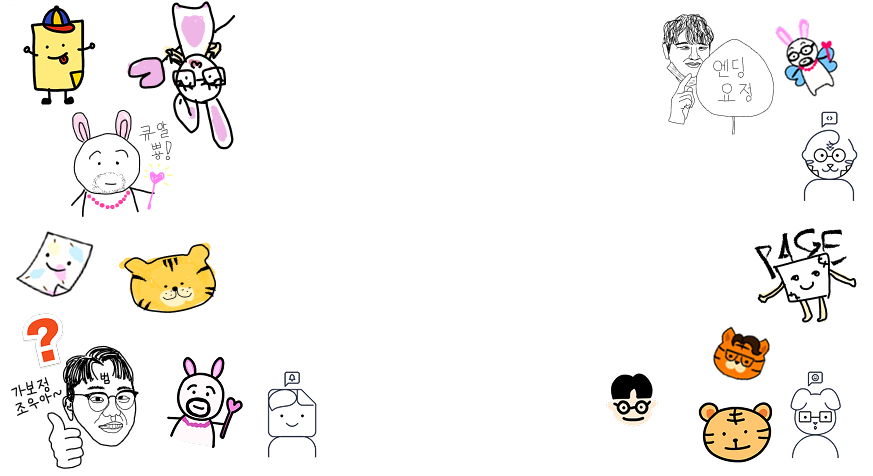
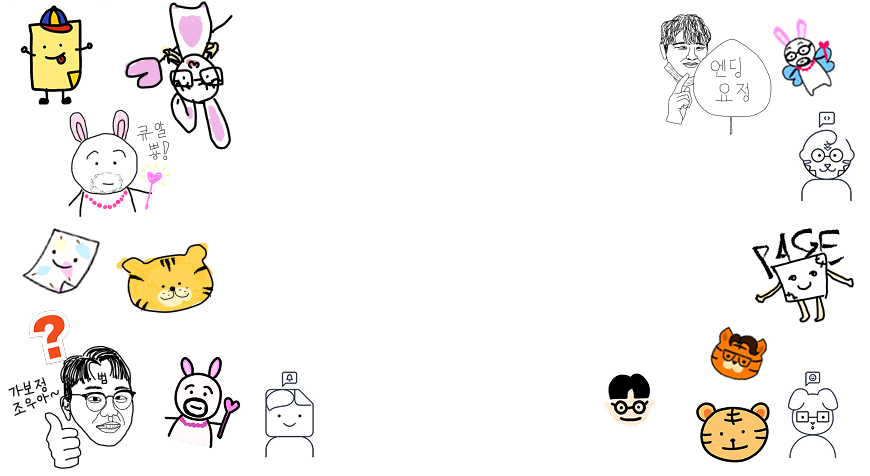
메인 이미지, 프로필 이미지 바뀜  적용

diff --git a/index.html b/index.html
@@ -25,12 +25,13 @@
                 <img
                   src="./assets/images/main/profile_img.png"
                   alt="프로필 이미지"
+                   class="profile_img"
                 />
               </figure>
               <nav class="lnb">
                 <ul>
                   <li>
-                    <a href="./html/uha.html" class="nav_link">
+                    <a href="./html/uha.html" class="nav_link" data-profile="uha">
                       <svg width="24" height="24" viewBox="0 0 24 24" fill="none" xmlns="http://www.w3.org/2000/svg">
                         <g clip-path="url(#clip0_47_20)">
                         <path d="M18 8H19C20.0609 8 21.0783 8.42143 21.8284 9.17157C22.5786 9.92172 23 10.9391 23 12C23 13.0609 22.5786 14.0783 21.8284 14.8284C21.0783 15.5786 20.0609 16 19 16H18M18 8H2V17C2 18.0609 2.42143 19.0783 3.17157 19.8284C3.92172 20.5786 4.93913 21 6 21H14C15.0609 21 16.0783 20.5786 16.8284 19.8284C17.5786 19.0783 18 18.0609 18 17V8ZM6 1V4M10 1V4M14 1V4" stroke="#1E1E1E" stroke-width="2.5" stroke-linecap="round" stroke-linejoin="round"/>
@@ -46,82 +47,26 @@
                     </a>
                   </li>
                   <li>
-                    <a href="./html/sujin.html" class="nav_link">
-                      <svg
-                        width="24"
-                        height="24"
-                        viewBox="0 0 24 24"
-                        fill="none"
-                        xmlns="http://www.w3.org/2000/svg"
-                      >
-                        <path
-                          d="M11 18H3M15 18L17 20L21 16M16 12H3M16 6H3"
-                          stroke="#0F172B"
-                          stroke-width="2"
-                          stroke-linecap="round"
-                          stroke-linejoin="round"
-                        />
-                      </svg>
+                    <a href="./html/sujin.html" class="nav_link" data-profile="sujin">
+                      <img src="./assets/images/sub/soo/sujin_icon.svg" alt="수진 아이콘" />
                       수진 princess
                     </a>
                   </li>
                   <li>
-                    <a href="./html/hyoyoung.html" class="nav_link">
-                      <svg
-                        width="24"
-                        height="24"
-                        viewBox="0 0 24 24"
-                        fill="none"
-                        xmlns="http://www.w3.org/2000/svg"
-                      >
-                        <path
-                          d="M11 18H3M15 18L17 20L21 16M16 12H3M16 6H3"
-                          stroke="#0F172B"
-                          stroke-width="2"
-                          stroke-linecap="round"
-                          stroke-linejoin="round"
-                        />
-                      </svg>
+                    <a href="./html/hyoyoung.html" class="nav_link" data-profile="hyoyoung">
+                      <img src="./assets/images/sub/hyo/taco.svg" alt="효영 아이콘" />
                       효영 princess
                     </a>
                   </li>
                   <li>
-                    <a href="./html/eunbin.html" class="nav_link">
-                      <svg
-                        width="24"
-                        height="24"
-                        viewBox="0 0 24 24"
-                        fill="none"
-                        xmlns="http://www.w3.org/2000/svg"
-                      >
-                        <path
-                          d="M11 18H3M15 18L17 20L21 16M16 12H3M16 6H3"
-                          stroke="#0F172B"
-                          stroke-width="2"
-                          stroke-linecap="round"
-                          stroke-linejoin="round"
-                        />
-                      </svg>
+                    <a href="./html/eunbin.html" class="nav_link" data-profile="eunbin">
+                      <img src="./assets/images/sub/bin/eunbin_icon.svg" alt="은빈 아이콘" />
                       은빈 princess
                     </a>
                   </li>
                   <li>
-                    <a href="./html/eunjung.html" class="nav_link">
-                      <svg
-                        width="24"
-                        height="24"
-                        viewBox="0 0 24 24"
-                        fill="none"
-                        xmlns="http://www.w3.org/2000/svg"
-                      >
-                        <path
-                          d="M11 18H3M15 18L17 20L21 16M16 12H3M16 6H3"
-                          stroke="#0F172B"
-                          stroke-width="2"
-                          stroke-linecap="round"
-                          stroke-linejoin="round"
-                        />
-                      </svg>
+                    <a href="./html/eunjung.html" class="nav_link" data-profile="eunjung">
+                      <img src="./assets/images/sub/eun/eunjung_icon.svg" alt="은정 아이콘" />
                       은정 princess
                     </a>
                   </li>
@@ -137,6 +82,7 @@
               class="iframe"
               src="./html/main.html"
               frameborder="0"
+              allowtransparency="true"
             ></iframe>
           </div>
           <!--// 오른쪽 영역 -->
@@ -153,10 +99,19 @@
 </html>
 
 <script>
+ const profileImages = {
+    "uha": "./assets/images/sub/yoo/uha_profile.png",
+    "sujin": "./assets/images/sub/soo/sujin_profile.png",
+    "hyoyoung": "./assets/images/sub/hyo/hyo_profile.jpg",
+    "eunbin": "./assets/images/sub/bin/eunbin_profile.png",
+    "eunjung": "./assets/images/sub/eun/eunjung_profile.png"
+  };
   document.querySelectorAll(".nav_link").forEach((link) => {
-    link.addEventListener("click", function (e) {
-      e.preventDefault();
-      document.querySelector(".iframe").src = this.href;
-    });
+  link.addEventListener("click", function(e) {
+    e.preventDefault();
+    const profileName = this.getAttribute('data-profile');
+    document.querySelector('.profile_img').src = profileImages[profileName];
+    document.querySelector(".iframe").src = this.href;
   });
+});
 </script>

diff --git a/assets/css/reset.css b/assets/css/reset.css
@@ -47,6 +47,7 @@ html, body {
     BlinkMacSystemFont, system-ui, Roboto, "Helvetica Neue", "Segoe UI",
     "Apple SD Gothic Neo", "Noto Sans KR", "Malgun Gothic", "Apple Color Emoji",
     "Segoe UI Emoji", "Segoe UI Symbol", sans-serif;
+		background-color: transparent;
 }
 a {
  font-size:100%;

diff --git a/assets/css/main.css b/assets/css/main.css
@@ -66,6 +66,7 @@
         background-color: #f5f5f5;
       }
     }
+    img {height: 24px;}
   }
 }
 
@@ -79,6 +80,7 @@
   .right_area {
     flex: 1;
     .iframe {
+      width: 100%;
       min-height: calc(100vh - 370px);
     }
   }

diff --git a/html/main.html b/html/main.html
@@ -8,7 +8,7 @@
 </head>
 <body>
   <div>
-    <img src="../assets/images/main/calendar.png" alt="메인 예시 이미지" />
+    <img src="../assets/images/main/main_img.png" alt="메인 이미지" />
   </div>
 </body>
 </html>
